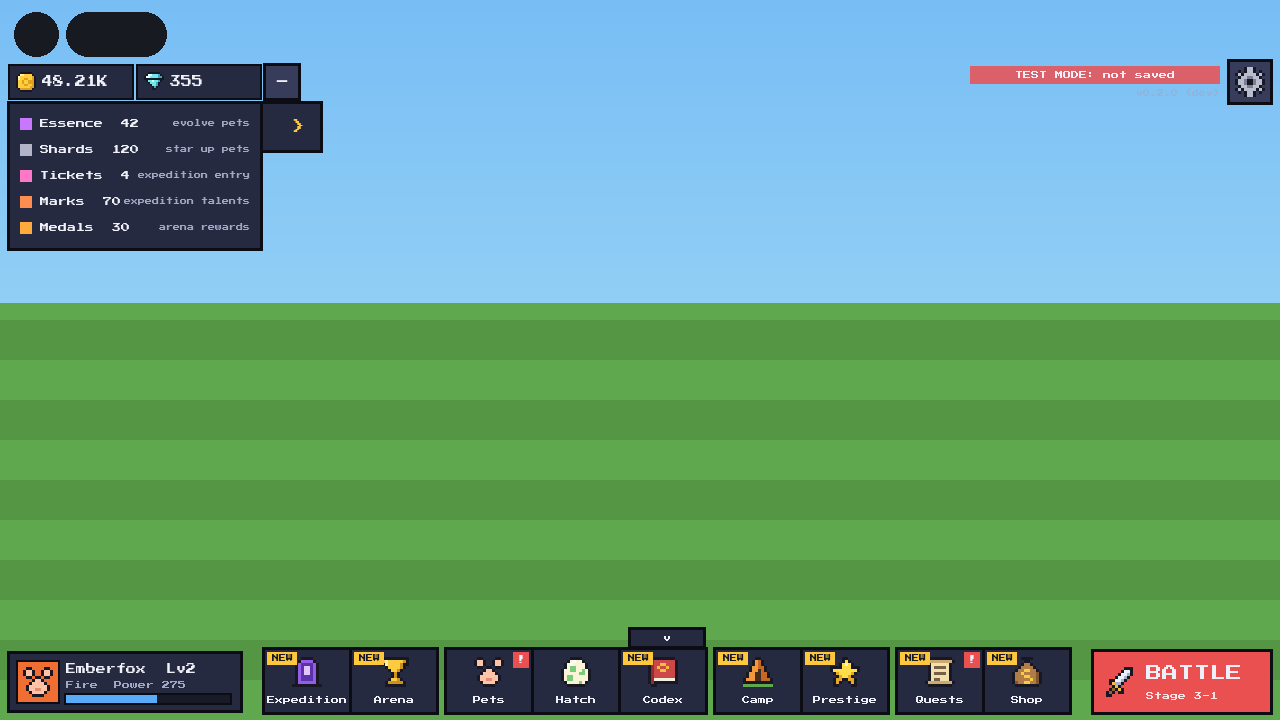
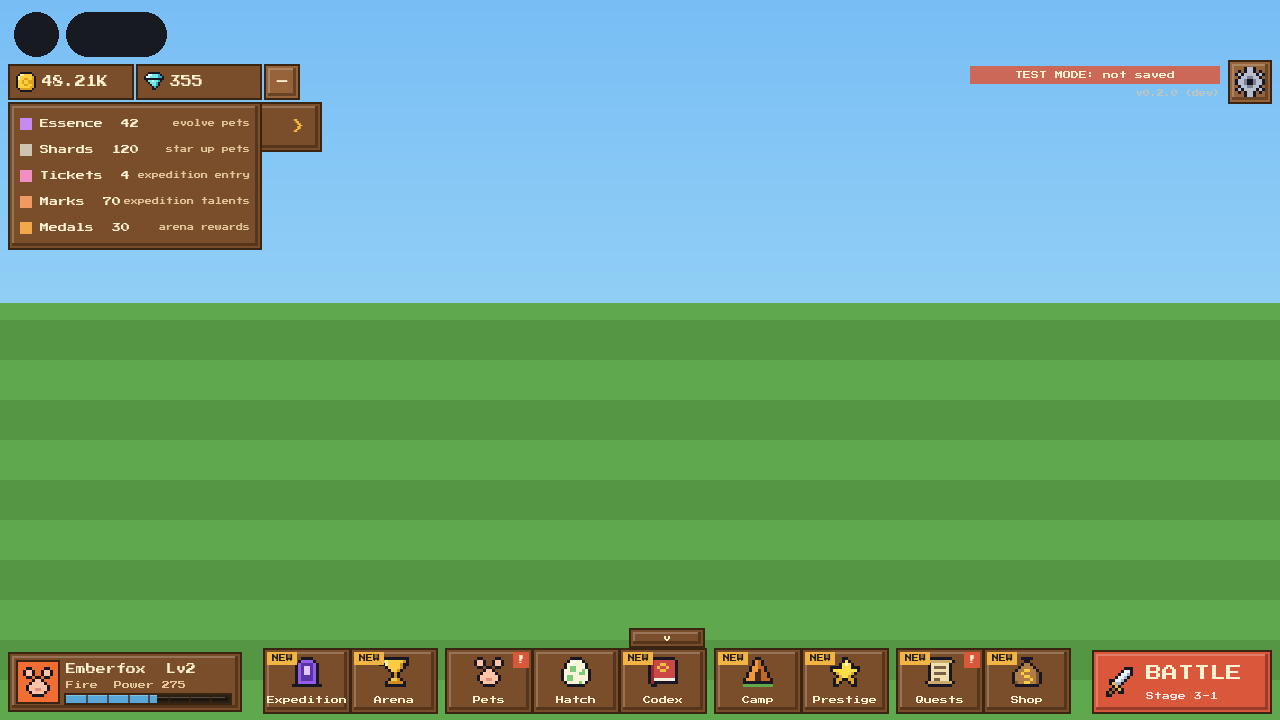
chore: v0.3.0 - portrait snapshots + overview tool, docs Day 5 / D-26
- ui_snapshot: 390x844 portrait pass (HUD/stages/hatch); make_overview.py with CJK captions
- BuildInfo 0.3.0; DEVLOG Day 5, DECISIONS D-26, README tester notes

diff --git a/scripts/make_overview.py b/scripts/make_overview.py
@@ -1,0 +1,92 @@
+#!/usr/bin/env python3
+"""Builds the one-image UI overview (Chinese captions) from rendered snapshots.
+
+Usage: python3 scripts/make_overview.py <snap_dir> <out_png> <version>
+Snapshots come from `lune run tools/ui_snapshot` + `python3 scripts/render_ui.py`.
+Captions use NotoSansCJK (system font) because the pixel font has no CJK glyphs.
+"""
+import os
+import sys
+
+from PIL import Image, ImageDraw, ImageFont
+
+SNAP_DIR = sys.argv[1] if len(sys.argv) > 1 else "/tmp/ui_snapshots"
+OUT = sys.argv[2] if len(sys.argv) > 2 else "/home/user/ui_preview.png"
+VERSION = sys.argv[3] if len(sys.argv) > 3 else "dev"
+
+# (file, caption)
+PANELS = [
+    ("01_loading", "启动加载页（左上角有版本印章）"),
+    ("02_first_join_partner_picker", "首次进入：三选一初始伙伴"),
+    ("03_tutorial_pointer_battle", "新手引导：指向出战按钮"),
+    ("05_battle_playback", "自动战斗：血条、能量、日志"),
+    ("06_battle_result", "战斗结算与奖励"),
+    ("07_hatch_unlocked_pointer", "孵蛋屋解锁提示"),
+    ("09_hatch_result", "孵化结果（稀有度发光边框）"),
+    ("11_hud_after_tutorial", "主界面：目标追踪 + 底部功能坞"),
+    ("13_late_game_hud_currencies", "后期 HUD 与货币栏"),
+    ("16_mobile_844x390_hud", "手机横屏：功能坞在伙伴与出战之间"),
+    ("17_mobile_844x390_stages", "手机横屏：关卡选择"),
+    ("18_mobile_390x844_hud", "手机竖屏：功能坞两行排布（新）"),
+    ("19_mobile_390x844_stages", "手机竖屏：关卡选择自适应（新）"),
+    ("20_mobile_390x844_hatch", "手机竖屏：孵蛋屋卡片换行（新）"),
+]
+
+COLS = 3
+CELL_W, CELL_H, CAP_H, PAD, MARGIN = 600, 400, 40, 18, 24
+HEADER_H = 110
+BG = (34, 26, 18)
+FG = (240, 220, 174)
+GOLD = (232, 185, 90)
+DIM = (227, 199, 155)
+
+CJK = None
+for p in (
+    "/usr/share/fonts/opentype/noto/NotoSansCJK-Regular.ttc",
+    "/usr/share/fonts/opentype/noto/NotoSansCJK-Bold.ttc",
+):
+    if os.path.exists(p):
+        CJK = p
+        break
+
+
+def font(size):
+    assert CJK, "NotoSansCJK not found"
+    return ImageFont.truetype(CJK, size, index=0)
+
+
+def load_snap(name):
+    path = os.path.join(SNAP_DIR, name + ".png")
+    im = Image.open(path).convert("RGB")
+    # letterbox into the cell, preserving aspect
+    s = min(CELL_W / im.width, CELL_H / im.height)
+    im = im.resize((max(1, round(im.width * s)), max(1, round(im.height * s))), Image.NEAREST)
+    cell = Image.new("RGB", (CELL_W, CELL_H), (24, 17, 11))
+    cell.paste(im, ((CELL_W - im.width) // 2, (CELL_H - im.height) // 2))
+    return cell
+
+
+def main():
+    rows = (len(PANELS) + COLS - 1) // COLS
+    W = MARGIN * 2 + COLS * CELL_W + (COLS - 1) * PAD
+    H = HEADER_H + rows * (CELL_H + CAP_H + PAD) + MARGIN
+    page = Image.new("RGB", (W, H), BG)
+    d = ImageDraw.Draw(page)
+    title = f"Voxel Pets v{VERSION} — UI 预览（新像素风 + 竖屏适配）"
+    sub = "暖木窗格 / 羊皮纸内衬 / 金色描边 · 关卡与孵蛋改为自适应流式布局 · 手机竖屏两行功能坞"
+    d.text((MARGIN, 26), title, font=font(34), fill=GOLD)
+    d.text((MARGIN, 72), sub, font=font(18), fill=DIM)
+    for i, (name, caption) in enumerate(PANELS):
+        r, c = divmod(i, COLS)
+        x = MARGIN + c * (CELL_W + PAD)
+        y = HEADER_H + r * (CELL_H + CAP_H + PAD)
+        cell = load_snap(name)
+        page.paste(cell, (x, y))
+        d.rectangle([x - 2, y - 2, x + CELL_W + 1, y + CELL_H + 1], outline=(58, 36, 18), width=2)
+        d.text((x + 4, y + CELL_H + 8), caption, font=font(20), fill=FG)
+    page.save(OUT, optimize=True)
+    print("overview ->", OUT, f"{page.width}x{page.height}")
+
+
+if __name__ == "__main__":
+    main()

diff --git a/docs/DEVLOG.md b/docs/DEVLOG.md
@@ -229,6 +229,28 @@
   - 3 只灰盒灵宠 + 1 个关卡 + 孵蛋 + 矿场产币
   - 退出标准：内部试玩"战斗好玩"≥ 4/5
 
+## 2026-09-26 · Day 5 · 美术方向：像素暖木 UI + 竖屏适配 + 更大更简的主界面
+
+**阶段**：打磨　**状态**：已交付 v0.3.0
+
+### 完成
+- **主题重制（PixelTheme）**：从冷蓝暗色换成"暖阳体素"暖色系——深棕底 `#2A1F14`、木纹面板 `#7A4E2A`、羊皮纸 `#F0DCAE`、金色描边 `#E8B95A`、强调橙金 `#F2B5A` → `#F2B544`。所有界面同 key 换色，一次性全部换肤。受星露谷物语启发但配色与结构均为原创（不复制素材）。
+- **组件质感（Components）**：所有面板 / 按钮 / 进度条加 2px 像素斜面（上左亮、下右暗）；按钮按下变暗；进度条加高光与 8 段刻度；面板标题栏改为木色 + 金色饰条。
+- **每扇窗口有关闭键（ScreenManager）**：偏移尺寸的窗口右上角自动加 X（手机没有 Esc 键）；开窗弹入动画（Back 缓动 0.16s）。
+- **关卡选择重排（Stages）**：改为流式布局（自适应 880×560 上限）：区域标签 → 关卡格子（可滚动换行）→ 羊皮纸情报卡（敌人属性 / 技能 / 奖励 / 元素克制提示）→ 全宽 54px 大 FIGHT 键。文字直接保持原字号（不靠缩放），手机竖屏上依然清晰。
+- **孵蛋屋重排（Hatch）**：蛋卡从固定一行改为网格换行（桌面 4 列 / 竖屏 2×2）+ 滚动。
+- **竖屏适配（HUD）**：`rescale()` 按横竖屏选择设计画布（540×960 / 1280×720）；竖屏时目标栏拉通全宽、功能坞拆成两行居中、伙伴条 + BATTLE 并排升到坞上方；横屏手机上功能坞过宽时自动上移一行（既有逻辑保留）。所有 HUD 模块新增 `relayout()`，方向切换实时重排。
+- **预览管线扩展**：ui_snapshot 增加 390×844 竖屏快照（HUD / 关卡 / 孵蛋）；新增 `scripts/make_overview.py` 一键生成带中文说明的总览图。
+
+### 问题 / 风险
+- 其余固定 860px 宽的界面（Pets / Quests / Shop / Camp / Expedition / Arena / Codex / Prestige）在竖屏上仍靠 FitScale 缩放（小屏字号偏小），下一批逐个改流式布局。
+- 渲染器不画 3D 与图片素材，真实观感仍以 Studio 实机为准。
+
+### 下一步
+- 剩余界面流式化（优先 Pets / Quests / Shop）。
+- 竖屏下战斗界面（Battle）的布局复核。
+- 3D 侧美术：宠物模型从 32 体素精度起步的视觉打磨。
+
 ---
 
 <!-- 模板

diff --git a/docs/DECISIONS.md b/docs/DECISIONS.md
@@ -29,3 +29,4 @@
 | D-23 | 2026-09-26 | 已定 | HUD 布局 | 左侧长列 / 分类弹出 / 底部功能坞 | **底部功能坞**（图标 + 名称、4 组、可收起、打开界面时让位、窄屏上移一行）+ 左上目标栏；BATTLE 大按钮是关卡入口（不重复进坞） | 项目所有者反馈左侧长列"看一眼就累"；底部坞是移动端主流布局、单行放得下全部 9 个功能，屏幕中央留给 3D 世界；预览渲染验证 1280×720 与 844×390 都不重叠 |
 | D-24 | 2026-09-26 | 已定 | 新手引导与渐进解锁 | 一次性展示全部功能 / 按进度解锁 + 引导 | **4 步教程**（选伙伴 → 首胜 → 免费首蛋必出异属性 → 1-2）+ **解锁表** Hatch 1-1 / Codex 首次孵蛋 / Quests·Shop 1-2 / Camp 1-3 / Expedition 1-5 / Arena 1-10 / Prestige 2-10；进度由服务端推导，奖励 +50 钻石只发一次，可跳过 | 让新玩家两分钟内完成战斗 → 孵蛋 → 推图闭环；金币升级改为情境提示（首胜经验已自动升级、首战收入不够下一级） |
 | D-25 | 2026-09-26 | 已定 | 事件时序假设 | 依赖 Immediate / 按 Deferred 设计 | **按 Roblox 默认 Deferred 设计**：加载期数据准备用同步 `DataService.OnLoad` 钩子，钩子期间暂停同步，首个快照后延迟补发；Mock 默认 Deferred | 首个实机 bug（No active pet）即源于 Immediate 假设；Mock 改语义后 CI 能复现此类时序问题 |
+| D-26 | 2026-09-26 | 已定 | 美术方向与移动端布局 | 现代扁平 UI / 像素暖木风；横屏优先 / 竖屏同等支持 | **像素暖木风**（自定"暖阳体素"配色：暖木面板 + 羊皮纸内衬 + 金色描边，参考星露谷的气质但不复制任何素材）+ **竖屏一等公民**（设计画布 540×960，HUD 四模块 `relayout()`、核心界面改流式布局、所有窗口自动带 X 关闭键）。主界面"更大更简"：大按钮、少文案、关键信息上羊皮纸卡 | 项目所有者是手机玩家；星露谷气质与体素 3D 互补且久经验证；固定像素字号 + 流式布局在竖屏上的可读性远好于整体缩放 |
